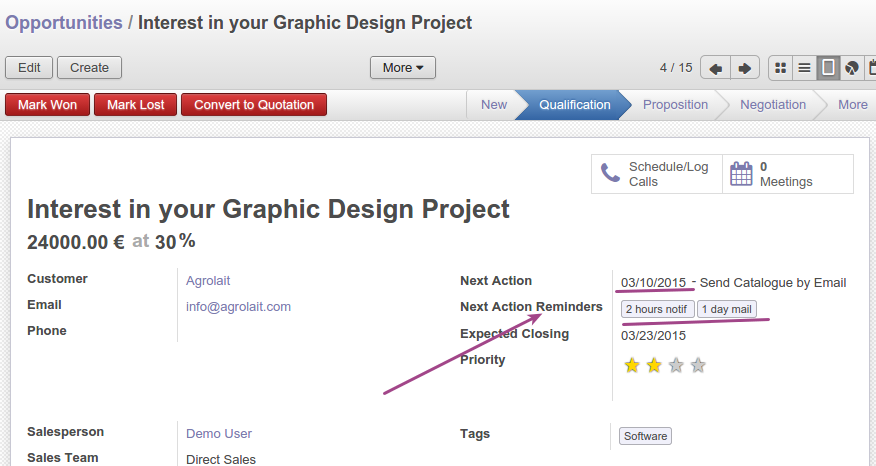
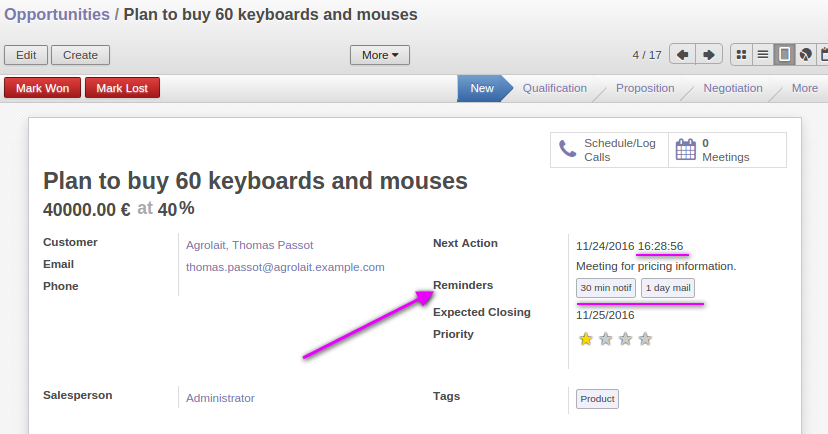
[DOC] reminder_crm_next_action_time

diff --git a/reminder_crm_next_action_time/static/description/index.html b/reminder_crm_next_action_time/static/description/index.html
@@ -1,14 +1,16 @@
 <section class="oe_container">
     <div class="oe_row oe_spaced">
         <div class="oe_span12">
-            <h2 class="oe_slogan">Reminders and Agenda for Opportunities</h2>
+          <h2 class="oe_slogan">Reminders and Agenda for Opportunities (with time)</h2>
+		  <h3 class="oe_slogan">Reminders for opportunities with the precise time feature</h3>	  
         </div>
 
         <div class="oe_span12">
             <div class="oe_demo oe_picture oe_screenshot">
-                <img src="form.png?1"/>
+                <img src="form.png?2"/>
             </div>
             <p class="oe_mt32">
+			  The module is extension of <em>Reminders and Agenda for Opportunities</em> and unlike the latter it allows you set the precise next action time.
                 For more information check <b>Reminders and Agenda (technical core)</b> module
             </p>
         </div>

diff --git a/reminder_crm_next_action_time/__openerp__.py b/reminder_crm_next_action_time/__openerp__.py
@@ -1,7 +1,9 @@
 # -*- coding: utf-8 -*-
 {
     'name': "Reminders and Agenda for Opportunities (with time)",
+    'summary': "Reminders for opportunities with the precise time feature",
     'version': '1.0.0',
+    'application': False,
     'author': 'IT-Projects LLC, Dinar Gabbasov',
     'license': 'GPL-3',
     'category': 'Reminders and Agenda',
@@ -12,5 +14,10 @@
     'data': [
         'views.xml',
     ],
+    'post_load': None,
+    'pre_init_hook': None,
+    'post_init_hook': None,
+
+    'auto_install': False,
     'installable': True,
 }

diff --git a/reminder_crm_next_action_time/README.rst b/reminder_crm_next_action_time/README.rst
@@ -1,6 +1,6 @@
-Reminders and Agenda for Opportunities
-======================================
+Reminders and Agenda for Opportunities (with time)
+==================================================
 
-Description: https://apps.odoo.com/apps/modules/8.0/reminder_crm_next_action/
+Description: https://apps.odoo.com/apps/modules/8.0/reminder_crm_next_action_time/
 
-Tested on Odoo 8.0 ea4f9c4625ec8eebcf337bbd8a8b44d68c377ad7
+Tested on Odoo 8.0 6682bde8a202794740b9756542b5b119db7606f3

diff --git a/reminder_crm_next_action_time/doc/index.rst b/reminder_crm_next_action_time/doc/index.rst
@@ -1,0 +1,16 @@
+===================================================
+ Reminders and Agenda for Opportunities (with time)
+===================================================
+
+Installation
+============
+
+* `Install <https://odoo-development.readthedocs.io/en/latest/odoo/usage/install-module.html>`__ this module in a usual way
+
+Usage
+=====
+
+* Go to the 'Opportunities' menu
+* Open or create Opportunity
+* Fill 'Next Action' and select 'Reminders'
+* Save the changes

diff --git a/reminder_crm_next_action_time/doc/changelog.rst b/reminder_crm_next_action_time/doc/changelog.rst
@@ -1,0 +1,9 @@
+.. _changelog:
+
+Updates
+=======
+
+`1.0.0`
+-------
+
+- Init version
